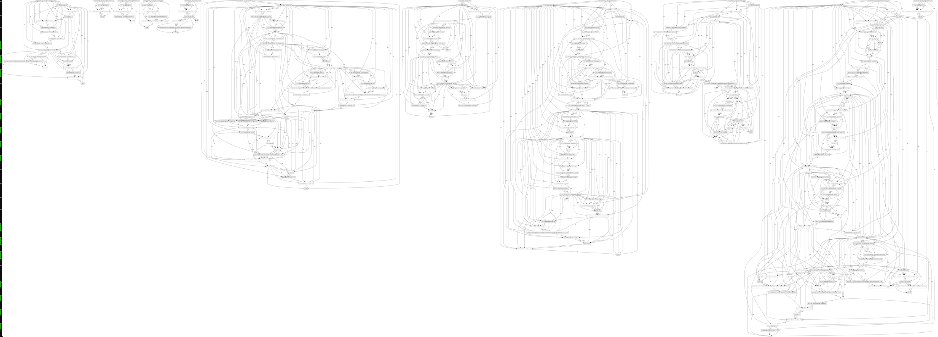
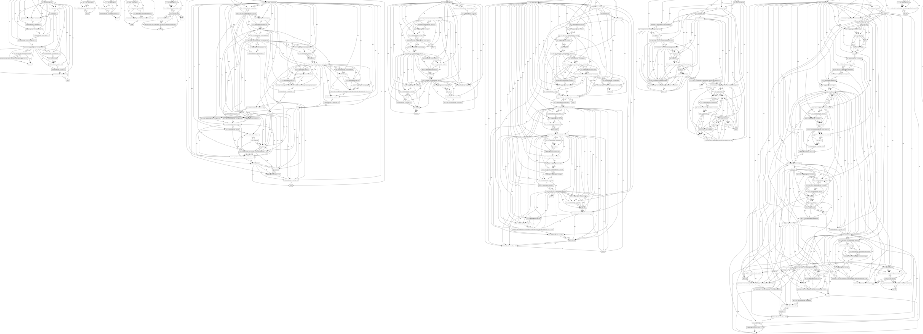
Added non-trivial pattern results

diff --git a/report.tex b/report.tex
@@ -274,7 +274,7 @@ pass
 Due to the large computation time for even moderately sized projects, a test data set of small toy-programs was chosen. Ten sections of example programs were chosen from \url{http://www.tutorialspoint.com/javaexamples/}, a website that hosts example java code showing how to use standard library features.
 
 \noindent The following sections were used:
-\begin{table}[h]
+\begin{table}[ht]
 \begin{tabular}{@{}ll@{}}
 \toprule
    & Topic           \\ \midrule
@@ -318,12 +318,77 @@ The following is an outline of the methodology we will use:
     \end{enumerate}
 \end{enumerate}
 
+\begin{figure}[ht]
+\centerline{
 \includegraphics[width=\linewidth]{spec_mining_methodology.png}
+}
+\caption{\label{mining_methodology}
+    Flowchart of methodology used
+}
+\end{figure}
 
 \section{Results}
-% Please add the following required packages to your document preamble:
-% \usepackage{graphicx}
-\begin{table}[h]
+\subsection{Generating PDGs}
+Running the programs through jpdg produces Program Dependency Graphs as dot files. Since these are at the bytecode level, the PDGS are extremely large even for small projects. Below are examples of two PDGs, each generated from one file inside their respective projects. They are just shown to give a sense of scale, since they are too large for the text to be readable.
+
+\begin{figure}[ht]
+\centerline{
+\includegraphics[width=\linewidth]{patterns/reader_pdg_full.png}
+}
+\caption{\label{reader_pca}
+    PDG for Reader.java, a file in the File project
+}
+\end{figure}
+
+
+\begin{figure}[ht]
+\centerline{
+\includegraphics[width=\linewidth]{patterns/full_network_small.png}
+}
+\caption{\label{server_pdg}
+    PDG for Server.java, a file in the Networking project
+}
+\end{figure}
+
+\subsection{Mining Non-trivial Patterns}
+A ``Non-trivial'' pattern is one that represents an actual specification, rather than boilerplate java bytecode that will be included in most java projects. One of the examples used in previous specification mining literature is discovering the pattern of opening and closing sockets in network programming. We therefore expect that gSpan should be able to identify a pattern such as this in the Network project. Observing the patterns found in the Network program, we see that this is the case.
+
+\begin{figure}[ht]
+\centerline{
+\includegraphics[width=\linewidth]{patterns/networking_pattern.png}
+}
+\caption{\label{socket_pattern}
+    Frequent graph found in the Network project representing the socket open/close pattern
+}
+\end{figure}
+
+
+Revisiting the PDG for Server.java, we can mark the pattern by doing a subgraph isomorphism search.
+
+\begin{figure}[ht]
+\centerline{
+\includegraphics[width=\linewidth]{patterns/networking_isomorphism_full.png}
+}
+\caption{\label{networking_isomorphism}
+    Highlighting socket pattern in Server.java PDG
+}
+\end{figure}
+
+\begin{figure}[ht]
+\centerline{
+\includegraphics[width=\linewidth]{patterns/networking_isomorphism_zoomed.png}
+}
+\caption{\label{networking_isomorphism_zoomed}
+    Zooming in on highlighted socket pattern in Server.java PDG
+}
+\end{figure}
+
+
+\subsection{Mining Trivial Patterns}
+
+\subsection{Removing Trivial Patterns}
+\subsection{Analysis}
+\begin{table}[ht]
 \resizebox{\textwidth}{!}{%
 \begin{tabular}{|l|l|l|l|l|l|}
 \hline
@@ -342,7 +407,6 @@ The following is an outline of the methodology we will use:
 }
 \end{table}
 
-%\includegraphics{patterns/reader_pdg_full.png}
 %\includegraphics{patterns/reader_getter.png}
 %\includegraphics{patterns/reader_setter.png}
 %\includegraphics{patterns/reader_getter_isomorphism.png}
